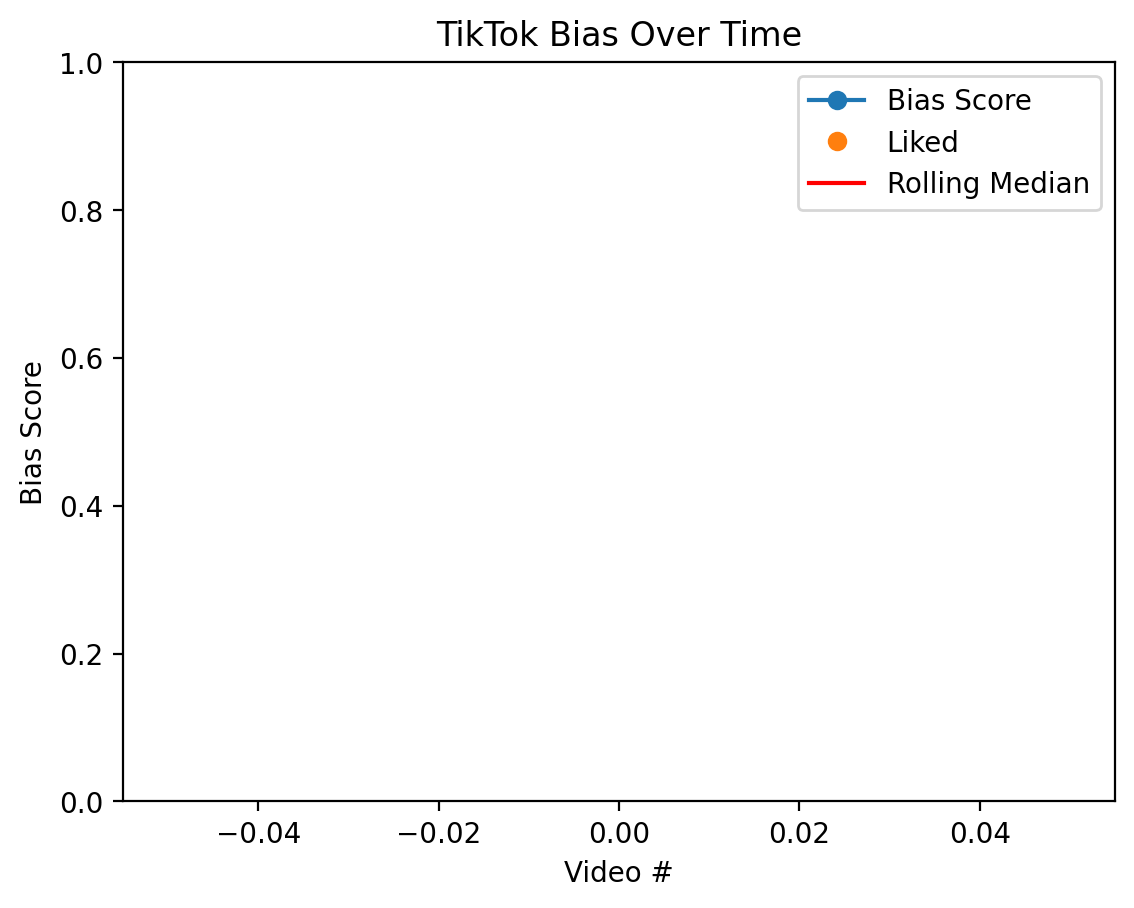
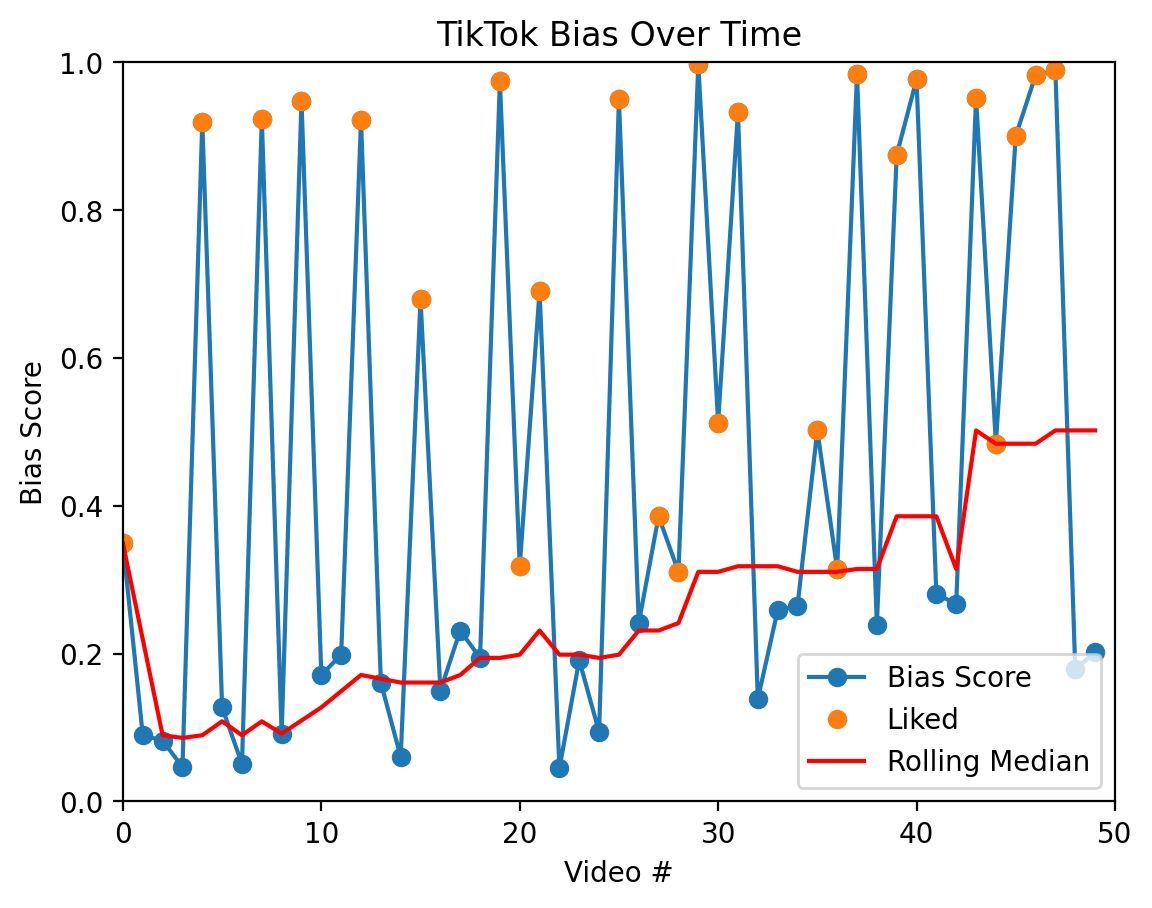
more customizable tuning
- tied save_threshold, like_threshold, steepness, and threshold to the abstractness value
- cleaned up some bloat in main
- fixed visual override roofing bug

diff --git a/main.py b/main.py
@@ -11,10 +11,6 @@ from captionBias import Relatedness
 from tiktok_webdriver import tiktokWebdriver
 from clip_classifier import ClipClassifier
 
-# Set to True to run the full interaction model (likes, saves)
-# Set to False if you want to test w/o logging in
-run_full_model = True
-
 def genericRunner():
     global c, abstractness, reverse_bias_mode
 
@@ -134,7 +130,7 @@ def genericRunner():
         score_visual_threshold = lerp(concrete_threshold, abstract_threshold, abstractness)[0] * score_multipliers[1]
         if score_visual >= score_visual_threshold:
             print(f"Visual Score >= {score_visual_threshold}! Overriding to ensure watch.")
-            score = 1.0
+            score = score_visual / score_multipliers[1]  # reverse the multiplier to get full score
             
         print(f"Combined Score: {score:.3f}")
 
@@ -148,11 +144,7 @@ def genericRunner():
             interaction_score = 1.0 - score
         
         # -- DECISION MAKING ----
-        # run relevant decision function
-        if run_full_model:
-            interactFullModel(i, interaction_score)
-        else:
-            interactAsTest(i, interaction_score)
+        interactFullModel(i, interaction_score)
             
         # pause to allow time to scroll/load
         time.sleep(2)
@@ -187,29 +179,23 @@ def lerp(start_dist, end_dist, t):
     t: value between 0 and 1
     """
     return [s + (e - s) * t for s, e in zip(start_dist, end_dist)]
-
-def interactAsTest(i, score):
-    # -- DECISION MAKING ----
-    threshold = 0.3
-    liked = score > threshold
-    if liked:
-        watch_time_value = value_to_watchtime(score, threshold, 1.5, 30.0)
-        print(f"Watching for {watch_time_value} seconds...")
-        time.sleep(watch_time_value)
-        i += 1
-    else:
-        print("Ignoring Video")
-        
-
-    webdriver.scroll()
     
 def interactFullModel(i, score):
     # -- DECISION MAKING ----
-    threshold = 0.45
-    steepness = 1.5
-    max_watchtime = 20.0
-    like_threshold = 0.7
-    save_threshold = 0.9
+    concrete_threshold = 0.45
+    abstract_threshold = 0.2
+    concrete_steepness = 1.7
+    abstract_steepness = 1.2
+    max_watchtime = 25.0
+    concrete_like_threshold = 0.7
+    abstract_like_threshold = 0.5
+    concrete_save_threshold = 0.9
+    abstract_save_threshold = 0.75
+    
+    threshold = lerp([concrete_threshold], [abstract_threshold], abstractness)[0]
+    steepness = lerp([concrete_steepness], [abstract_steepness], abstractness)[0]
+    like_threshold = lerp([concrete_like_threshold], [abstract_like_threshold], abstractness)[0]
+    save_threshold = lerp([concrete_save_threshold], [abstract_save_threshold], abstractness)[0]
     
     liked = score > threshold
     if liked:

diff --git a/captionBias.py b/captionBias.py
@@ -17,8 +17,7 @@ class Relatedness:
     """
 
     #model path
-    MODEL_PATH = os.path.join(os.path.dirname(os.path.abspath(__file__)), 'cc.en.300.bin')
-
+    MODEL_PATH = r'/Users/anderscurrah/Desktop/Random Coding Stuffs/Hackathons/HackaCookers/models/cc.en.300.bin'
     model = None
     STOPWORDS = None
 
